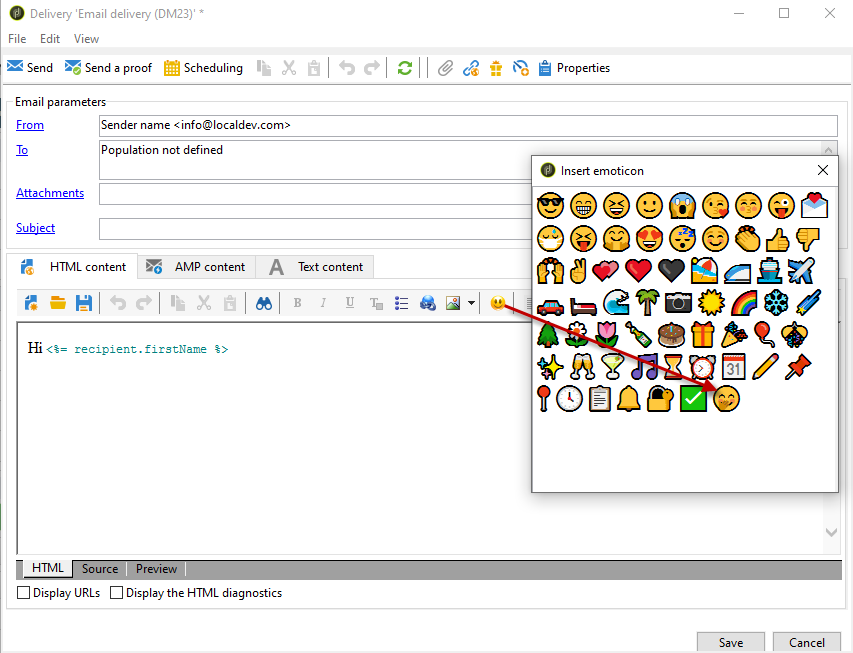
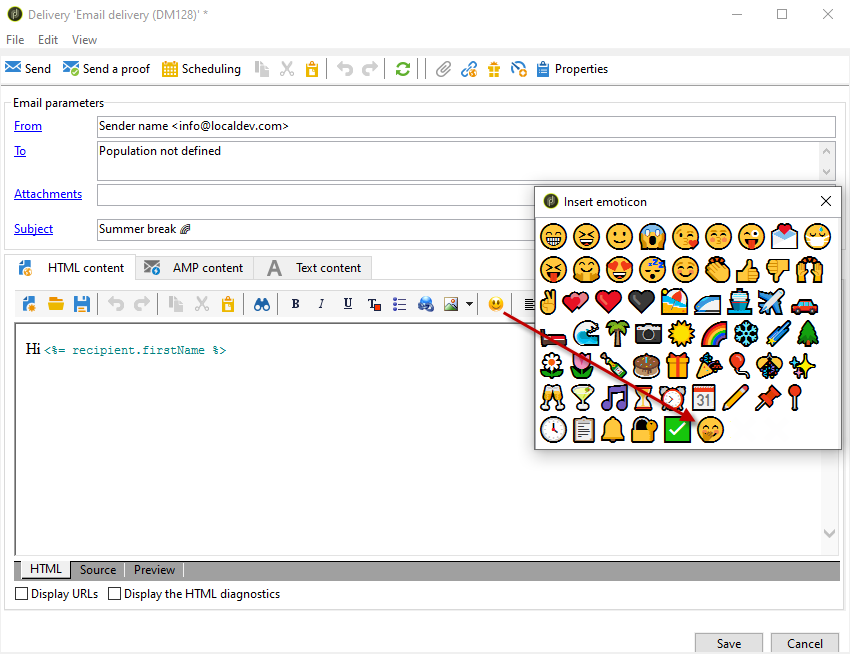
add changes for feature

diff --git a/help/delivery/using/customizing-emoticon-list.md b/help/delivery/using/customizing-emoticon-list.md
@@ -16,16 +16,15 @@ snippet: y
 
 # Customizing the emoticon list {#customize-emoticons}
 
-The emoticon list displayed in the pop-up is ruled by an enumeration.
-An enumeration allows you to display values in a list in order to restrict the choices that the user has for a given field.
+The emoticon list displayed in the pop-up is ruled by an enumeration which allows you to display values in a list to restrict the choices that the user has for a given field.
 The emoticon list order can be customized, you can also add other emoticons to your list.
-Emoticons are available for email and push for more on this refer to
+Emoticons are available for email and push for more on this refer to this [page](../../delivery/using/defining-the-email-content.md#inserting-emoticons).
 
 ## Adding a new emoticon {#add-new-emoticon}
 
 >[!CAUTION]
 >
->The emoticon list can not exceed 81 entries.
+>The emoticon list can not display more than 81 entries.
 
 1. Choose your new emoticon to add from this [page](https://unicode.org/emoji/charts/full-emoji-list.html). Note that it has to be compatible with the different platforms such as browser and OS.
 
@@ -40,23 +39,31 @@ Emoticons are available for email and push for more on this refer to
 1. Click **[!UICONTROL Add]**.
 
 1. Fill in the fields:
+
     * **[!UICONTROL U+]**: Code of your new emoticon. You can find the list of emoticons' codes in this [page](https://unicode.org/emoji/charts/full-emoji-list.html).
+    To avoid compatibility issues, we advise you to choose emoticons which are supported on browsers and on every operation system.
 
-    * **[!UICONTROL Label)**: Label of your new emoticon.
+    * **[!UICONTROL Label]**: Label of your new emoticon.
 
-    * **[!UICONTROL Display order]**: Choose here in which order your new emoticon will be displayed. Note that by selecting an existing display order the existing emoticon will be automatically moved to the store.
-    <br>In this example, we chose the display order number 80 which means that if an entry already had this order it will be automatically moved to the store and our new entry will take its place in the enumeration list.
-
-     ![](assets/emoticon_2.png)
+     ![](assets/emoticon_5.png)
 
 1. Click **[!UICONTROL Ok]** then **[!UICONTROL Save]** when your configuration is finished.
+    Your new emoticon will be automatically placed in the store.
 
-1. For your changes to be taken into account, you need to clear your cache by selecting **[!UICONTROL File]** > **[!UICONTROL Clear the local cache...]**.
+1. To display it in the **[!UICONTROL Insert emoticon]** window of your deliveries, select your newly created emoticon by double-clicking it.
 
-     ![](assets/emoticon_3.png)
+1. Choose in the **[!UICONTROL Display order]** drop-down in which order your new emoticon will be displayed. Note that by selecting an already assigned display order the existing emoticon will be automatically moved to the store.
 
-1. Your new emoticon has now been added to the **[!UICONTROL Emoticon list]** out-of-the-box enumeration. Double-click  it to change its **[!UICONTROL Display order]** or move it to the store if you do not need it anymore.
+    <br>In this example, we chose the display order number 61 which means that if an entry already had this order it will automatically be moved to the store and our new entry will take its place in the enumeration list.
 
-Your new emoticon can now be found in your deliveries in the **[!UICONTROL Insert emoticon]** pop-up window in the 80th position as configured in the previous steps. For more information on how to use emoticons in your deliveries, refer to this page.
+    ![](assets/emoticon_2.png)
 
-![](assets/emoticon_4.png)
+1. For your changes to be taken into account, disconnect then reconnect from Adobe Campaign Classic. If your new emoticon still doesn't appear in the **[!UICONTROL Insert emoticon]** pop-up window, you might need to clear your cache. For more on this, refer to this [section](../../platform/using/faq-campaign-config.md#perform-soft-cache-clear).
+
+1. Your new emoticon can now be found in your deliveries in the **[!UICONTROL Insert emoticon]** pop-up window in the 61st position as configured in the previous steps. For more information on how to use emoticons in your deliveries, refer to this [page](../../delivery/using/defining-the-email-content.md#inserting-emoticons).
+
+    ![](assets/emoticon_4.png)
+
+1. If the following emoticons appear in your **[!UICONTROL Insert emoticon]** pop-up window, this means that they were not correctly configured. Check if your **[!UICONTROL U+]** code or **[!UICONTROL Display order]** is correct in the **[!UICONTROL Emoticon list]**.
+
+    ![](assets/emoticon_6.png)

diff --git a/help/delivery/using/defining-the-email-content.md b/help/delivery/using/defining-the-email-content.md
@@ -55,7 +55,7 @@ For example, in the message above, the subject of the message is personalized fo
 >
 >The use of personalization fields is presented in [About personalization](../../delivery/using/about-personalization.md).
 
-You can also insert emoticons to your subject line with a copy/paste.
+You can also insert emoticons to your subject line with the **[!UICONTROL Insert emoticon]** pop-up window.
 
 ## Message content {#message-content}
 
@@ -109,7 +109,7 @@ Messages are sent in HTML or text format by default, according to recipient pref
 
   ![](assets/s_ncs_user_wizard_email01_142.png)
 
-### Inserting emoticons in an email
+### Inserting emoticons in an email {#inserting-emoticons}
 
 You can insert emoticons to your email content.
 
@@ -120,11 +120,7 @@ You can insert emoticons to your email content.
 
 1. Click the **[!UICONTROL Close]** button when done.
 
->[!NOTE]
->
->For subject line, emoticons can only be inserted via a copy/paste.
-
-To customize the emoticon list, refer to [customizing the emoticon list](../../delivery/using/defining-interactive-content.md)
+To customize the emoticon list, refer to this [page](../../delivery/using/customizing-emoticon-list.md).
 
 ## Selecting message formats {#selecting-message-formats}
 
